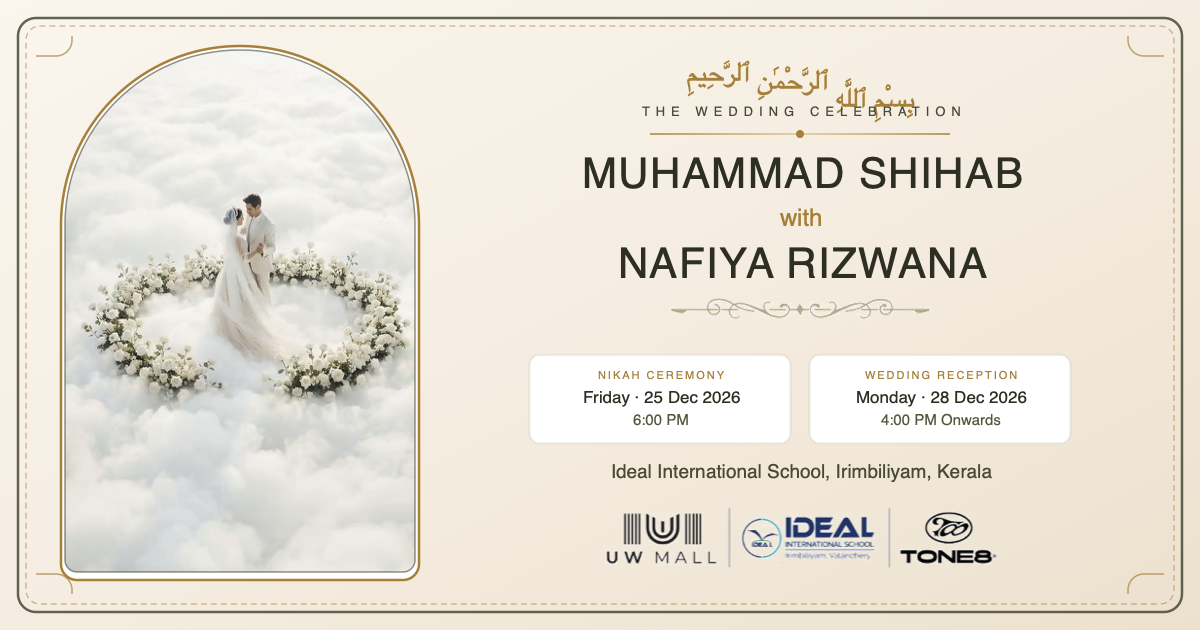
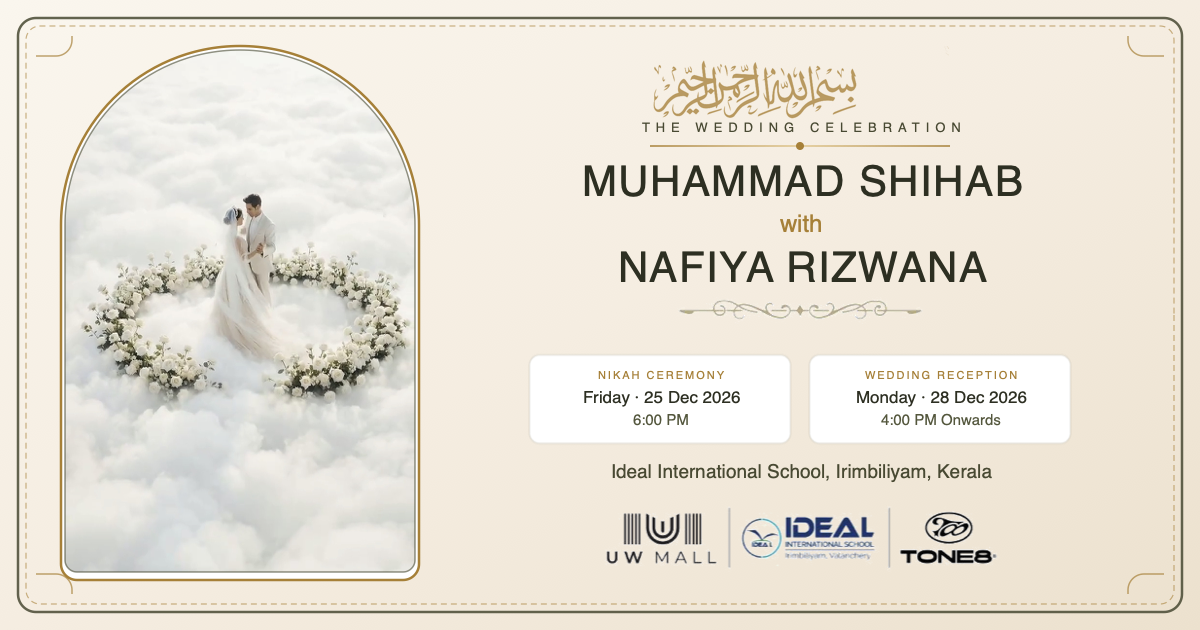
Fix Arabic Bismillah calligraphy in WhatsApp preview image (og-thumb.png)

Changed region(s): [[0.4625, 0.0905, 0.8633, 0.4524], [0.555, 0.4825, 0.7708, 0.5127]]

diff --git a/index.html b/index.html
@@ -11,8 +11,8 @@
 <meta property="og:site_name" content="Shihab &amp; Nafiya Wedding">
 <meta property="og:title" content="Muhammad Shihab &amp; Nafiya Rizwana | The Wedding">
 <meta property="og:description" content="Friday, 25 December 2026 &middot; 6:00 PM &mdash; Ideal International School, Irimbiliyam, Kerala.">
-<meta property="og:image" content="https://shihab-nafiya.vercel.app/og-thumb.png?v=20261225">
-<meta property="og:image:secure_url" content="https://shihab-nafiya.vercel.app/og-thumb.png?v=20261225">
+<meta property="og:image" content="https://shihab-nafiya.vercel.app/og-thumb.png?v=20261226">
+<meta property="og:image:secure_url" content="https://shihab-nafiya.vercel.app/og-thumb.png?v=20261226">
 <meta property="og:image:type" content="image/png">
 <meta property="og:image:width" content="1200">
 <meta property="og:image:height" content="630">
@@ -23,7 +23,7 @@
 <meta name="twitter:card" content="summary_large_image">
 <meta name="twitter:title" content="Muhammad Shihab &amp; Nafiya Rizwana | The Wedding">
 <meta name="twitter:description" content="Friday, 25 December 2026 &middot; 6:00 PM &mdash; Ideal International School, Irimbiliyam, Kerala.">
-<meta name="twitter:image" content="https://shihab-nafiya.vercel.app/og-thumb.png?v=20261225">
+<meta name="twitter:image" content="https://shihab-nafiya.vercel.app/og-thumb.png?v=20261226">
 
 <!-- runtime origins (standard #17) -->
 <link rel="preconnect" href="https://fonts.googleapis.com">
